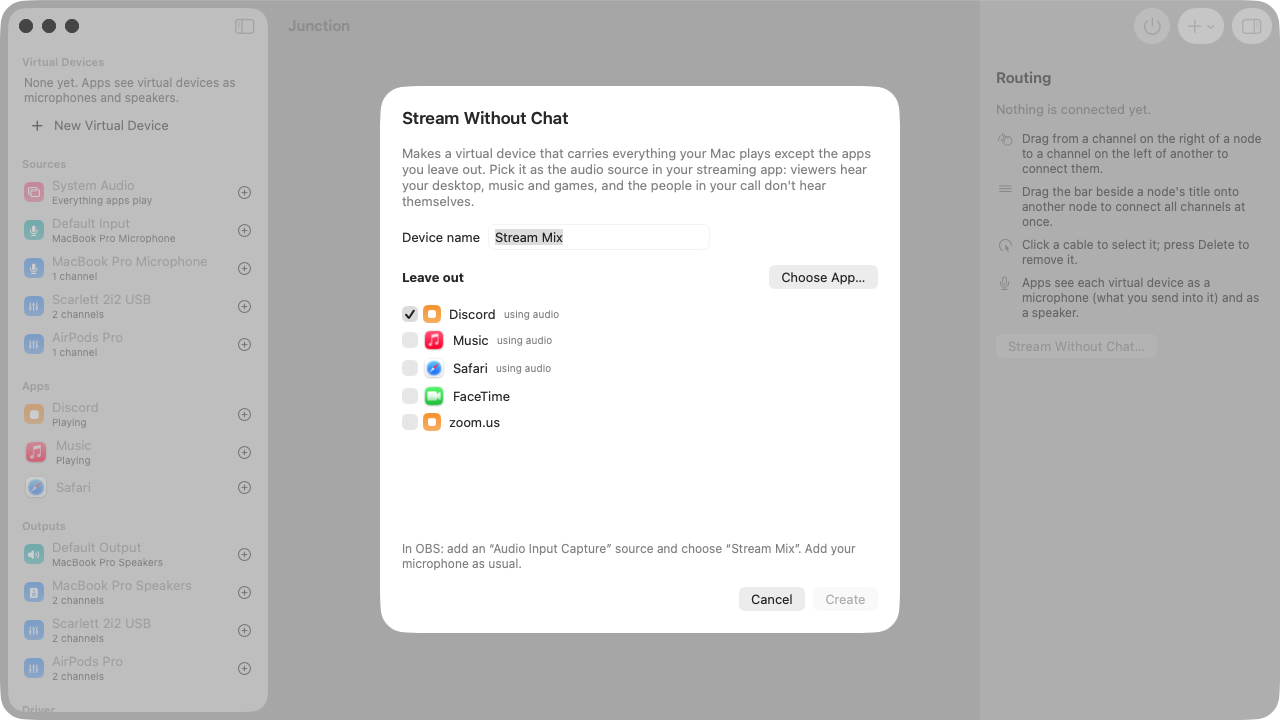
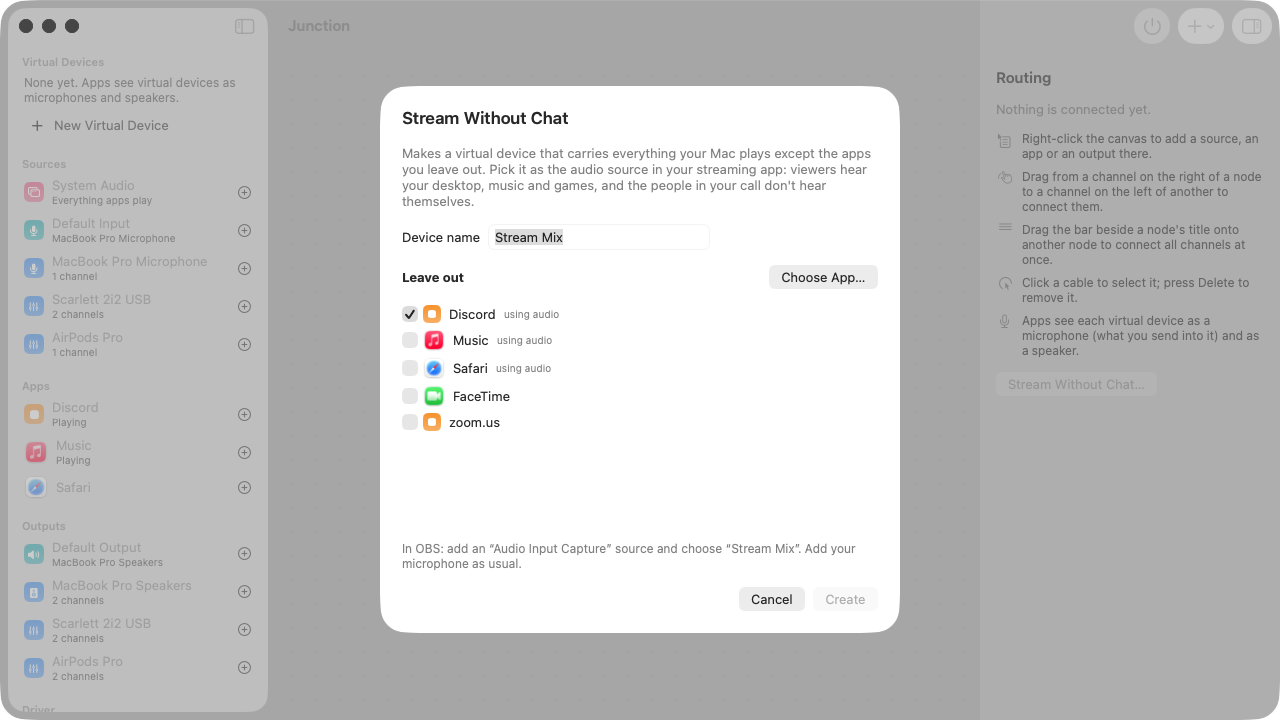
Right-click the canvas to add nodes; New Virtual Device is the main empty-canvas action
- The canvas background has a context menu with everything the Add menu offers (now
  shared as AddMenuItems, plus virtual devices not on the canvas); the node lands at
  the click. The pointer is tracked without redrawing the canvas.
- The empty canvas leads with New Virtual Device; Stream Without Chat is secondary.
- Inspector and empty-canvas hints mention right-click; README and sheet screenshots
  updated.

Changed region(s): [[0.7812, 0.1833, 0.9688, 0.4889]]

diff --git a/Sources/Junction/JunctionApp.swift b/Sources/Junction/JunctionApp.swift
@@ -185,39 +185,58 @@ struct RootView: View {
 }
 
 struct AddMenu: View {
-    @Environment(AppModel.self) private var model
-
     var body: some View {
         Menu {
-            Button("New Virtual Device") { model.addVirtualDevice() }
-            Divider()
-            Section("Sources") {
-                Button("System Audio") { model.addNode(.systemAudio(excluding: [])) }
-                Button("Default Input") { model.addNode(.defaultInput) }
-                ForEach(model.inventory.inputDevices) { device in
-                    Button(device.name) { model.addNode(.device(device.ref)) }
-                }
-            }
-            if !model.inventory.apps.isEmpty {
-                Section("Apps") {
-                    ForEach(model.inventory.apps) { app in
-                        Button(app.name) { model.addNode(.application(app.ref)) }
-                    }
-                }
-            }
-            Section("Outputs") {
-                Button("Default Output") { model.addNode(.defaultOutput) }
-                ForEach(model.inventory.outputDevices) { device in
-                    Button(device.name) { model.addNode(.device(device.ref)) }
-                }
-            }
-            Divider()
-            Button("Stream Without Chat…") { model.showStreamTemplate = true }
+            AddMenuItems()
         } label: {
             Label("Add", systemImage: "plus")
         }
         .help("Add a source, an output or a virtual device")
     }
+}
+
+/// What the toolbar's Add menu and the canvas's right-click menu offer. `spot` says where the new node goes (read
+/// when an item is chosen); nil finds a free spot.
+struct AddMenuItems: View {
+    @Environment(AppModel.self) private var model
+    var spot: () -> CGPoint? = { nil }
+
+    var body: some View {
+        Button("New Virtual Device") { model.addVirtualDevice(at: spot()) }
+        let offCanvas = model.graph.virtualDevices.filter { device in
+            !model.graph.nodes.contains { $0.kind == .virtualDevice(device.id) }
+        }
+        if !offCanvas.isEmpty {
+            Section("Virtual Devices") {
+                ForEach(offCanvas) { device in Button(device.name) { add(.virtualDevice(device.id)) } }
+            }
+        }
+        Divider()
+        Section("Sources") {
+            Button("System Audio") { add(.systemAudio(excluding: [])) }
+            Button("Default Input") { add(.defaultInput) }
+            ForEach(model.inventory.inputDevices) { device in
+                Button(device.name) { add(.device(device.ref)) }
+            }
+        }
+        if !model.inventory.apps.isEmpty {
+            Section("Apps") {
+                ForEach(model.inventory.apps) { app in
+                    Button(app.name) { add(.application(app.ref)) }
+                }
+            }
+        }
+        Section("Outputs") {
+            Button("Default Output") { add(.defaultOutput) }
+            ForEach(model.inventory.outputDevices) { device in
+                Button(device.name) { add(.device(device.ref)) }
+            }
+        }
+        Divider()
+        Button("Stream Without Chat…") { model.showStreamTemplate = true }
+    }
+
+    private func add(_ kind: NodeKind) { model.addNode(kind, at: spot()) }
 }
 
 struct DriverBanner: View {
@@ -258,13 +277,16 @@ struct EmptyCanvas: View {
                     .multilineTextAlignment(.center)
             }
             HStack(spacing: 12) {
-                Button("Stream Without Chat…") { model.showStreamTemplate = true }
+                Button("New Virtual Device") { model.addVirtualDevice() }
                     .buttonStyle(.glassProminent)
                     .controlSize(.large)
-                Button("New Virtual Device") { model.addVirtualDevice() }
+                Button("Stream Without Chat…") { model.showStreamTemplate = true }
                     .buttonStyle(.glass)
                     .controlSize(.large)
             }
+            Text("Right-click the canvas to add sources and outputs.")
+                .font(.callout)
+                .foregroundStyle(.secondary)
         }
         .padding(40)
     }

diff --git a/Sources/Junction/Canvas.swift b/Sources/Junction/Canvas.swift
@@ -54,6 +54,8 @@ struct CanvasView: View {
     @State private var wire: PendingWire?
     @State private var dragOrigins: [UUID: CGPoint] = [:]
     @State private var refusal: String?
+    /// Where the pointer last was over the canvas, for the right-click menu. Not observed: hovering mustn't redraw.
+    @State private var pointer = PointerSpot()
     @FocusState private var focused: Bool
 
     var body: some View {
@@ -67,6 +69,15 @@ struct CanvasView: View {
                     .onTapGesture(coordinateSpace: .named("canvas")) { location in
                         model.selection = hitCable(at: location, info: info).map { .cable($0) }
                         focused = true
+                    }
+                    .onContinuousHover(coordinateSpace: .named("canvas")) { phase in
+                        if case .active(let location) = phase { pointer.location = location }
+                    }
+                    .contextMenu {
+                        // New nodes go where the menu was opened, header under the pointer.
+                        AddMenuItems(spot: { [pointer] in
+                            pointer.location.map { CGPoint(x: max(0, $0.x - 30), y: max(0, $0.y - 20)) }
+                        })
                     }
                 CableLayer(wire: wire)
                     .frame(width: bounds.width, height: bounds.height)
@@ -265,6 +276,10 @@ struct CableLayer: View {
         case .busInput(let id): graph.node(id).map(NodeLayout.busInputPoint)
         }
     }
+}
+
+final class PointerSpot {
+    var location: CGPoint?
 }
 
 struct GridBackground: View {

diff --git a/Sources/Junction/AppModel.swift b/Sources/Junction/AppModel.swift
@@ -442,7 +442,7 @@ final class AppModel {
     // MARK: Virtual devices
 
     @discardableResult
-    func addVirtualDevice(name: String? = nil, channels: Int = 2) -> VirtualDevice? {
+    func addVirtualDevice(name: String? = nil, channels: Int = 2, at point: CGPoint? = nil) -> VirtualDevice? {
         guard graph.virtualDevices.count < VirtualDevice.maximumCount else {
             alert = "Junction can publish up to \(VirtualDevice.maximumCount) virtual devices."
             return nil
@@ -455,7 +455,7 @@ final class AppModel {
         }
         let device = VirtualDevice(name: candidate, channels: channels)
         graph.virtualDevices.append(device)
-        addNode(.virtualDevice(device.id))
+        addNode(.virtualDevice(device.id), at: point)
         return device
     }
 

diff --git a/Sources/Junction/Inspector.swift b/Sources/Junction/Inspector.swift
@@ -39,6 +39,7 @@ private struct Overview: View {
                     .foregroundStyle(.secondary)
             }
             VStack(alignment: .leading, spacing: 8) {
+                Help(symbol: "contextualmenu.and.cursorarrow", text: "Right-click the canvas to add a source, an app or an output there.")
                 Help(symbol: "hand.draw", text: "Drag from a channel on the right of a node to a channel on the left of another to connect them.")
                 Help(symbol: "line.3.horizontal", text: "Drag the bar beside a node's title onto another node to connect all channels at once.")
                 Help(symbol: "cursorarrow.click", text: "Click a cable to select it; press Delete to remove it.")

diff --git a/README.md b/README.md
@@ -6,7 +6,8 @@ node-and-cable canvas.
 - **Virtual devices** (sidebar): create, rename, set 1–64 channels and a sample rate, and switch each one on or off.
   Every app sees an enabled device as both a microphone and a speaker. Anything sent into it comes back out, so a
   streaming, call or recording app can record what Junction (or another app) plays into it.
-- **Canvas**: add sources and destinations from the sidebar (or **+** in the toolbar) and drag cables from a channel on
+- **Canvas**: add sources and destinations from the sidebar, **+** in the toolbar, or by right-clicking the canvas
+  (the node lands where you clicked), and drag cables from a channel on
   the right of a node to a channel on the left of another. The bar beside a node's title connects all channels at once.
   Click a cable to select it, Delete removes it. Meters show levels; cables glow with the audio they carry; dashed
   cables carry nothing right now (an end is missing or routing is off).
